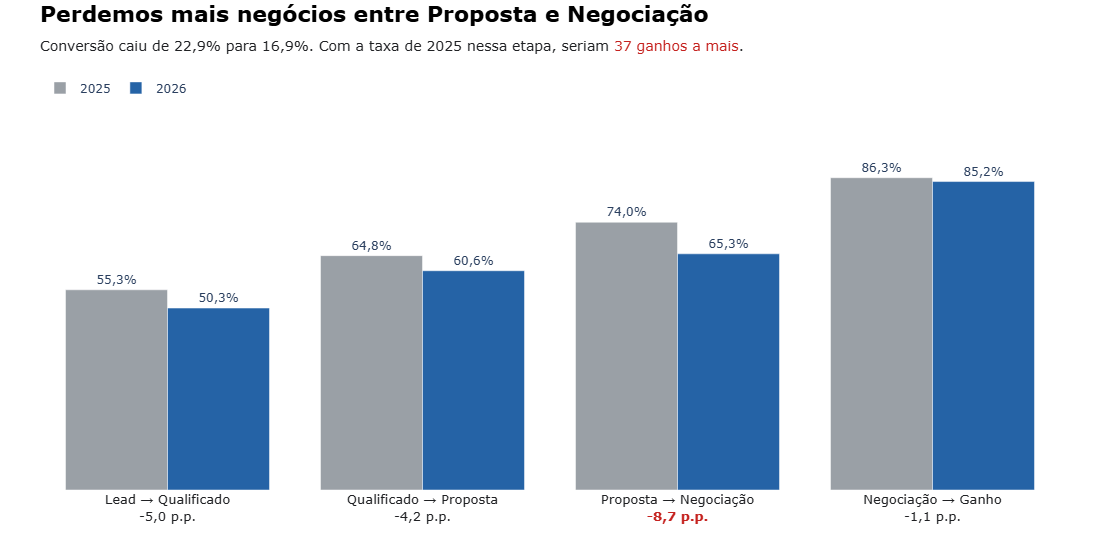
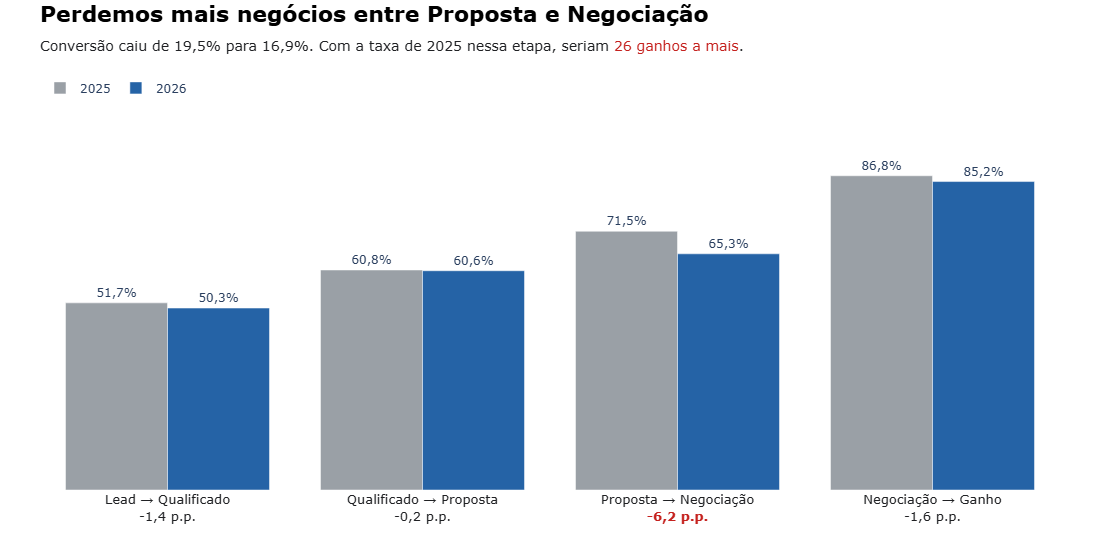
fix: corrigindo gráficos e criando storytelling

diff --git a/src/analises/comercial/funil_comercial/geradores/indicadores_ytd.py b/src/analises/comercial/funil_comercial/geradores/indicadores_ytd.py
@@ -19,13 +19,16 @@ def indicadores_ytd(negocios: pl.DataFrame) -> pl.DataFrame:
         negocios.with_columns(
             ano=pl.col("data_criacao").dt.year(),
             mes=pl.col("data_criacao").dt.month(),
+            # Fechado até 30/09 do próprio ano
+            fechado=pl.col("data_fechamento")
+            <= pl.date(pl.col("data_criacao").dt.year(), 9, 30),
         )
         .filter(*periodo)
         .group_by("ano", "mes")
         .agg(
             criados=pl.len(),
-            fechados=(pl.col("status") != "Aberto").sum(),
-            ganhos_criados=(pl.col("status") == "Ganho").sum(),
+            fechados=pl.col("fechado").sum(),
+            ganhos_criados=((pl.col("status") == "Ganho") & pl.col("fechado")).sum(),
         )
     )
     ganhos = (
@@ -151,8 +154,8 @@ def grafico_indicadores_ytd(indicadores: pl.DataFrame, caminho: Path) -> None:
     subtitulo = (
         f"Geramos {destacar('mais' if volume >= 0 else 'menos', volume)} "
         f"oportunidades, mas convertemos "
-        f"{destacar('mais' if conversao >= 0 else 'menos', conversao)} e vendemos "
-        f"{destacar('mais caro' if ticket >= 0 else 'mais barato', ticket)}."
+        f"{destacar('mais' if conversao >= 0 else 'menos', conversao)} e cada venda "
+        f"vale {destacar('mais' if ticket >= 0 else 'menos', ticket)}."
     )
     if volume >= 0 and not alta:
         subtitulo += " O problema não é demanda, é venda."

diff --git a/src/analises/comercial/funil_comercial/geradores/conversao_etapas.py b/src/analises/comercial/funil_comercial/geradores/conversao_etapas.py
@@ -17,14 +17,18 @@ from geradores.common import (
 
 
 def etapas_atingidas(negocios: pl.DataFrame) -> pl.DataFrame:
-    # Corte de criação jan–set, só fechados: quantos negócios atingiram cada etapa
+    # Criados jan–set, só fechados até 30/09 do próprio ano: quantos atingiram cada etapa
     return (
         negocios.filter(pl.col("status") != "Aberto")
         .with_columns(
             ano=pl.col("data_criacao").dt.year(),
             mes=pl.col("data_criacao").dt.month(),
         )
-        .filter(pl.col("ano").is_in([2025, 2026]), pl.col("mes") <= ULTIMO_MES)
+        .filter(
+            pl.col("ano").is_in([2025, 2026]),
+            pl.col("mes") <= ULTIMO_MES,
+            pl.col("data_fechamento") <= pl.date(pl.col("ano"), 9, 30),
+        )
         .group_by("ano")
         .agg(
             Lead=pl.len(),

diff --git a/src/analises/comercial/funil_comercial/geradores/metricas_grupo.py b/src/analises/comercial/funil_comercial/geradores/metricas_grupo.py
@@ -30,13 +30,16 @@ def metricas_por_grupo(negocios: pl.DataFrame, coluna: str) -> pl.DataFrame:
         negocios.with_columns(
             ano=pl.col("data_criacao").dt.year(),
             mes=pl.col("data_criacao").dt.month(),
+            # Fechado até 30/09 do próprio ano
+            fechado=pl.col("data_fechamento")
+            <= pl.date(pl.col("data_criacao").dt.year(), 9, 30),
         )
         .filter(*periodo)
         .group_by(coluna, "ano")
         .agg(
             criados=pl.len(),
-            conversao=(pl.col("status") == "Ganho").sum()
-            / (pl.col("status") != "Aberto").sum(),
+            conversao=((pl.col("status") == "Ganho") & pl.col("fechado")).sum()
+            / pl.col("fechado").sum(),
         )
     )
     ganhos = (

diff --git a/src/analises/comercial/funil_comercial/geradores/motivos_perda.py b/src/analises/comercial/funil_comercial/geradores/motivos_perda.py
@@ -20,7 +20,11 @@ def perdas_apos_lead(negocios: pl.DataFrame) -> pl.DataFrame:
             ano=pl.col("data_criacao").dt.year(),
             mes=pl.col("data_criacao").dt.month(),
         )
-        .filter(pl.col("ano").is_in([2025, 2026]), pl.col("mes") <= ULTIMO_MES)
+        .filter(
+            pl.col("ano").is_in([2025, 2026]),
+            pl.col("mes") <= ULTIMO_MES,
+            pl.col("data_fechamento") <= pl.date(pl.col("ano"), 9, 30),
+        )
     )
 
 

diff --git a/src/analises/comercial/funil_comercial/STORYTELLING.md b/src/analises/comercial/funil_comercial/STORYTELLING.md
@@ -1,0 +1,89 @@
+# Storytelling do Funil Comercial
+
+## Cenário
+
+Empresa B2B de software de gestão para PMEs. 
+No fechamento de setembro de 2026, o diretor comercial precisa responder:
+o comercial está melhor ou pior que em 2025?
+
+## A receita cai a partir de julho
+
+![Gráfico de linhas com a receita mensal de 2026 e de 2025](../../../../assets/exemplos/funil_comercial/receita-ytd-2026-x-2025.png)
+
+De fevereiro a junho, 2026 rendeu mais que 2025 todos os meses. 
+Porém, a partir de julho, começamos a render menos em todos os meses: 
+R\$ 0,97M contra R\$ 1,52M em julho e R\$ 0,82M contra R\$ 1,17M em setembro (30% menos).
+
+O acumulado até setembro ficou 4% abaixo do de 2025 (-R\$ 0,36M).
+
+## A demanda cresceu, mas vendemos pior
+
+![Gráfico de linhas com negócios criados, conversão e ticket médio de 2026 e de 2025](../../../../assets/exemplos/funil_comercial/indicadores-ytd.png)
+
+Criamos 1.882 negócios até setembro, 24% a mais que os 1.513 de 2025.
+
+Mas convertemos menos: a conversão caiu de 19,5% para 16,9% (-2,6 p.p.) e ficou abaixo de 2025 desde março.
+O ticket médio também caiu, de R\$ 28,7 mil para R\$ 25,4 mil (-11%), e se afasta de 2025 desde julho.
+
+Mais volume não compensou a queda de conversão e de ticket. É nessa queda que a receita foi perdida.
+
+A receita caiu só 4% porque o volume compensa boa parte: +24% de negócios, contra -13% de conversão e -11% de ticket
+(1,24 × 0,87 × 0,89 ≈ 0,96).
+
+O desconto médio quase não mudou (7,5% para 7,8%). O ticket caiu porque os negócios fechados são menores: o valor
+estimado médio caiu 11%.
+
+A conversão compara os negócios criados de janeiro a setembro, vistos em 30/09 de cada ano: 196 seguiam em aberto em
+2025 e 247 em 2026.
+
+## A conversão cai na proposta
+
+![Gráfico de barras com a conversão entre as etapas do funil em 2025 e em 2026](../../../../assets/exemplos/funil_comercial/conversao-entre-etapas.png)
+
+A conversão de lead a ganho caiu de 19,5% para 16,9%. Para achar onde, olhamos cada etapa do funil.
+
+Quem chega à negociação ainda fecha quase como antes. O problema está antes: a proposta deixou de avançar.
+
+Esses 26 ganhos a mais valeriam cerca de R\$ 0,66M ao ticket médio de 2026 (R\$ 25,4 mil), quase o dobro da diferença de
+R\$ 0,36M no acumulado. Recuperar só essa etapa cobriria a queda de receita.
+
+## A perda vem do preço
+
+![Gráfico de barras com a participação de cada motivo nas vendas perdidas em 2025 e em 2026](../../../../assets/exemplos/funil_comercial/motivos-perda.png)
+
+O preço lidera o aumento das perdas. As perdas após o lead subiram de 424 para 545 (+121). Perdemos 195 negócios por
+preço em 2026, 80 a mais que em 2025: dois terços do aumento. Concorrente responde por outros 37.
+
+Preço e Concorrente juntos pesam em 60,7% das perdas. O preço é o principal candidato a explicar por que as propostas
+deixaram de avançar.
+
+## O canal de Indicação concentra a perda
+
+![Gráfico de barras com a variação de volume, conversão, ticket médio e receita por canal de origem](../../../../assets/exemplos/funil_comercial/canais.png)
+
+A perda não está espalhada pelos canais. Indicação perdeu R\$ 729 mil, o dobro da queda total de R\$ 0,36M.
+O que segura o resultado é Evento: com volume 124% maior, trouxe R\$ 518 mil a mais. Sem ele, a queda seria de R\$ 0,87M.
+
+Em Indicação, o volume cresceu 27% e o ticket caiu 29%: trouxemos mais negócios, porém menores. O valor estimado médio
+caiu de R\$ 40,7 mil para R\$ 28,9 mil e o desconto subiu só 1,9 p.p. (6,7% para 8,6%). A conversão caiu apenas 2,0 p.p.:
+a perda de Indicação é de ticket.
+
+## Mesmo volume, resultados opostos
+
+![Gráfico de barras com a variação de volume, conversão, ticket médio e receita por vendedor](../../../../assets/exemplos/funil_comercial/vendedores.png)
+
+O gráfico considera só os negócios que chegaram a Qualificado, por isso a conversão de cada vendedor não é comparável
+com a conversão total. Quatro dos seis vendedores perderam receita. A maior queda é a de Valentina Farias (-R\$ 575 mil), maior que a queda total
+de R\$ 0,36M.
+
+Com crescimento de volume parecido (+24% e +23%), Mariane Barbosa fez o oposto: elevou a conversão (+3,3 p.p. contra
+-7,4 p.p.), subiu o ticket em 31%, contra queda de 30%, e trouxe R\$ 661 mil a mais. O volume não explica a diferença.
+
+## O Q4 não deve compensar a queda
+
+![Gráfico em cascata com o potencial de receita dos negócios em aberto no Q4 de 2026, por etapa, comparado ao Q4 de 2025](../../../../assets/exemplos/funil_comercial/forecast.png)
+
+Os negócios em aberto chegam ao Q4 no mesmo patamar de 2025. Sem folga, o trimestre não deve compensar a diferença de
+R\$ 0,36M do acumulado.
+
+A Proposta é a etapa que mais pesa na previsão (R\$ 0,87M) e a que mais perdeu conversão. É onde agir primeiro no Q4.

diff --git a/src/analises/comercial/funil_comercial/README.md b/src/analises/comercial/funil_comercial/README.md
@@ -9,7 +9,9 @@
 Empresa B2B de software de gestão para PMEs. No fechamento de setembro de 2026, o diretor comercial compara o ano
 com 2025 e decide onde agir no Q4 e no planejamento de 2027.
 
-Etapas do funil: Lead → Qualificado → Proposta → Negociação → Ganho ou Perdido.
+## Storytelling
+
+A análise já foi concluída e você pode ler [aqui](STORYTELLING.md)
 
 ## Como executar
 
